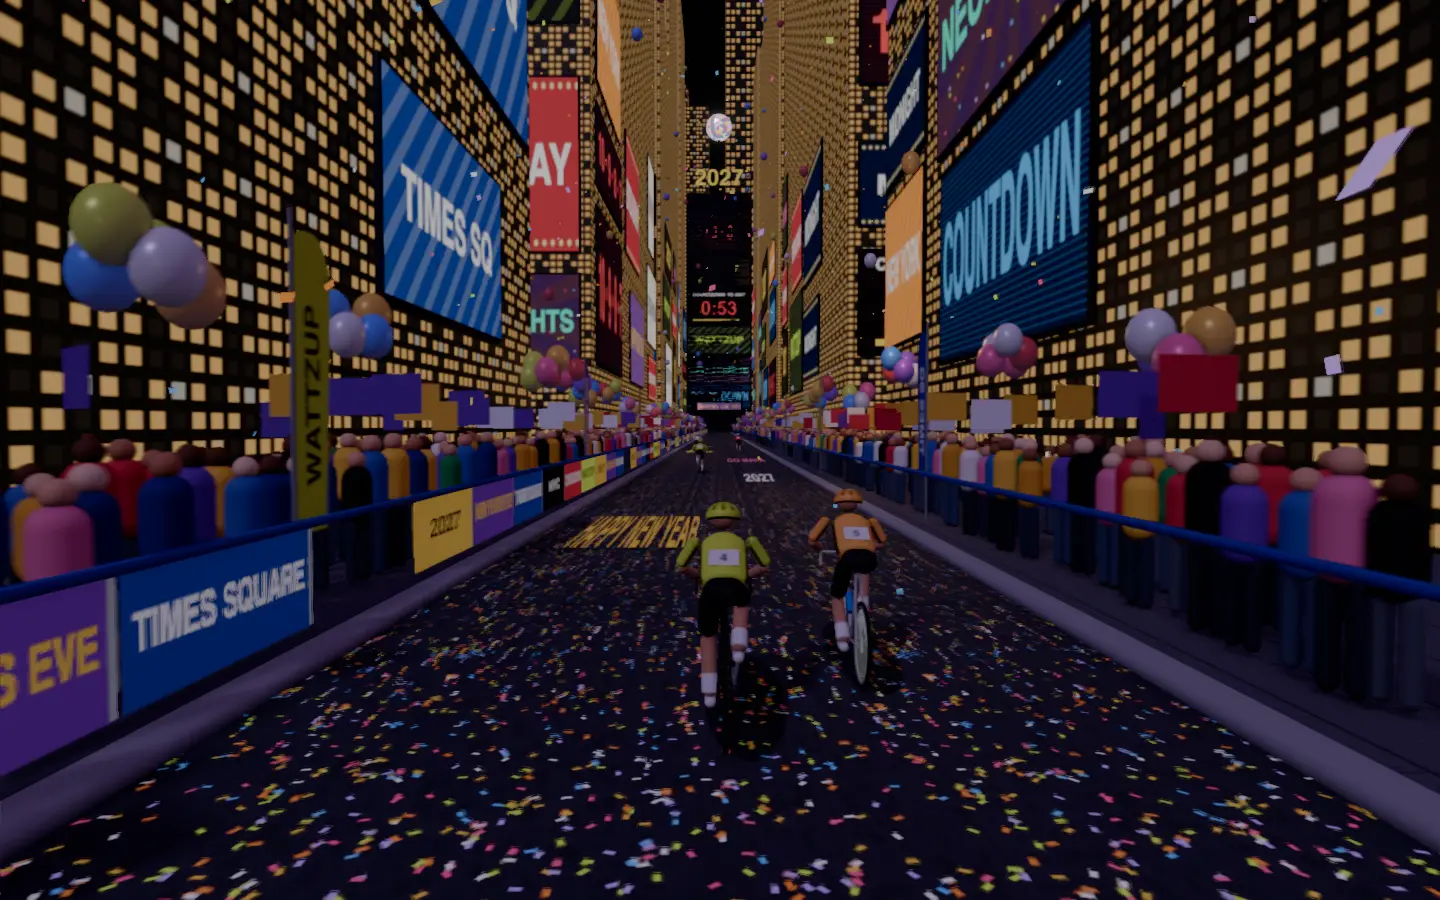
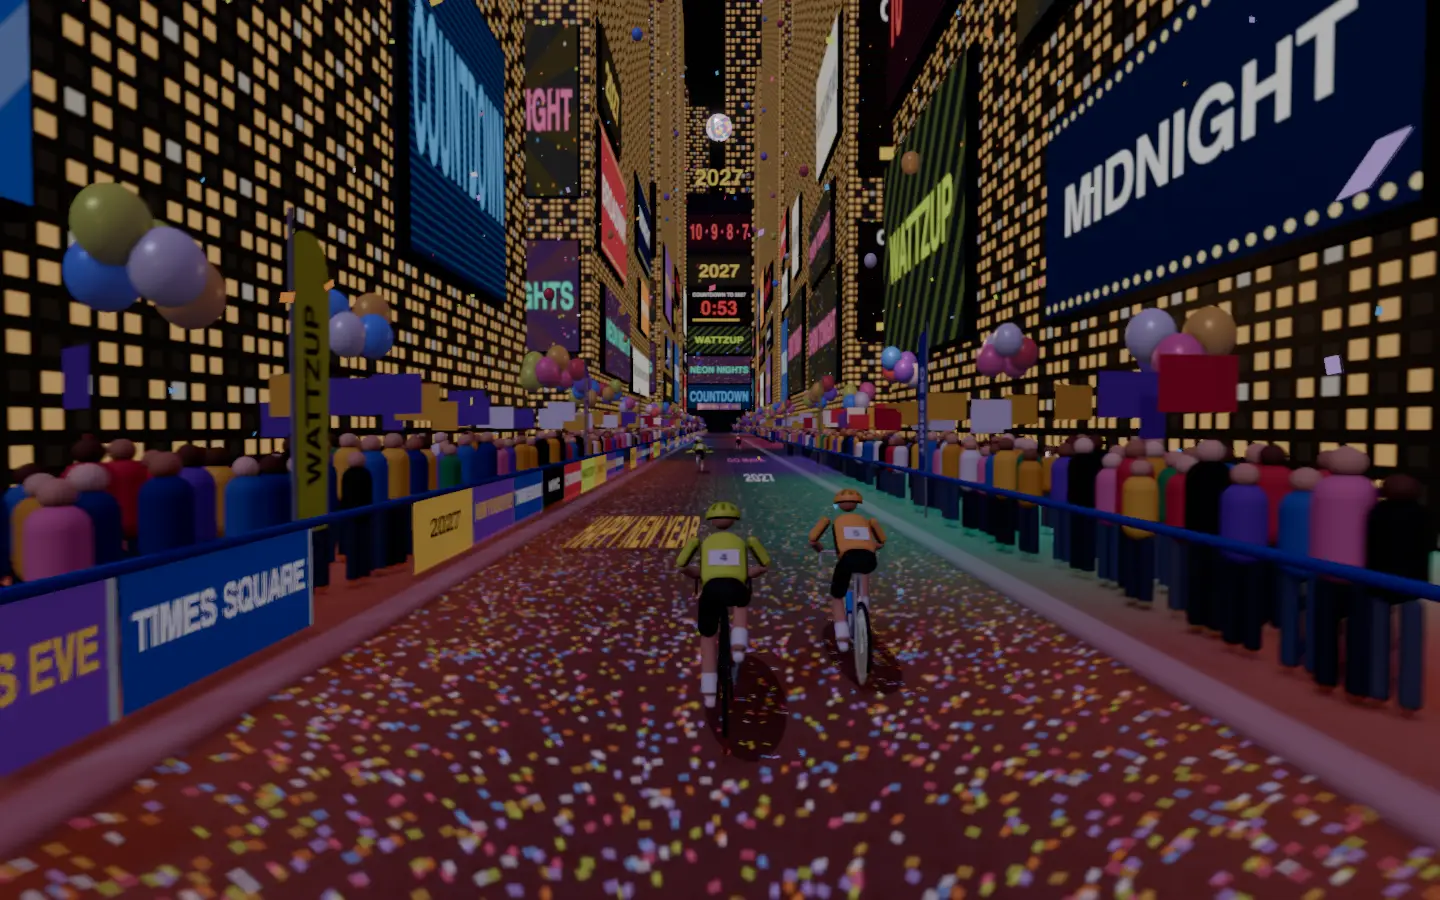
Throw the screens' light across Times Square and steady the far screens

diff --git a/frontend/projects/wattzup/src/app/core/world-timessquare.ts b/frontend/projects/wattzup/src/app/core/world-timessquare.ts
@@ -8,6 +8,7 @@
 // canvas textures and a loop that recycles the street, with the shared crowd, barriers, banners,
 // feather flags, road paint and box builder of world-kit.ts.
 import {
+  AdditiveBlending,
   BoxGeometry,
   type CanvasTexture,
   Color,
@@ -144,6 +145,8 @@ const BALLOON_COLOURS = [
   '#d8283a',
   '#d7ff3a',
 ];
+/** The colours the screens throw onto the street. */
+const GLOW_COLOURS = [0xff3a8a, 0x3a8aff, 0xffc83a, 0x9a4aff, 0x3affd8, 0xff6a1a];
 const CONFETTI_COLOURS = [
   '#f2c230',
   '#ffffff',
@@ -375,6 +378,28 @@ export class TimesSquareStreet implements SceneStreet {
       }),
     );
     const frame = this.material({ color: 0x14141a, roughness: 0.6, metalness: 0.3 });
+    // The light the screens throw: a pool of their colour spilling from each front across the
+    // plaza, the crowd and the street, brightest under the boards and fading toward the crown.
+    const spill = this.track(spillTexture());
+    const pools = GLOW_COLOURS.map((colour) => {
+      const material = new MeshBasicMaterial({
+        map: spill,
+        color: colour,
+        transparent: true,
+        opacity: 0.42,
+        blending: AdditiveBlending,
+        depthWrite: false,
+        toneMapped: false,
+        polygonOffset: true,
+        polygonOffsetFactor: -6,
+      });
+      this.disposables.push(material);
+      return material;
+    });
+    const pool = new PlaneGeometry(1, 1);
+    pool.rotateX(-Math.PI / 2);
+    pool.translate(0.5, 0, 0);
+    this.disposables.push(pool);
     for (const side of [-1, 1] as const) {
       for (let block = 0; block < LOOP / BLOCK; block++) {
         let offset = block * BLOCK + 2;
@@ -391,6 +416,10 @@ export class TimesSquareStreet implements SceneStreet {
           this.disposables.push(shell);
           const body = new Mesh(shell, walls[Math.floor(random() * walls.length)]!);
           tower.add(body);
+          const glow = new Mesh(pool, pools[Math.floor(random() * pools.length)]!);
+          glow.scale.set(FRONT + 1, 1, width + 6);
+          glow.position.y = 0.03;
+          tower.add(glow);
           // Billboards along the front, stacked up the lower floors.
           let y = 5 + random() * 3;
           while (y < 34) {
@@ -468,7 +497,8 @@ export class TimesSquareStreet implements SceneStreet {
       new MeshBasicMaterial({ map: texture, toneMapped: false }),
     );
     this.disposables.push(face.geometry, face.material as MeshBasicMaterial);
-    face.position.z = 0.12;
+    // Well clear of the frame, so the two never fight for depth even 260 m off.
+    face.position.z = 0.4;
     const back = new Mesh(new BoxGeometry(w + 0.4, h + 0.4, 0.2), frame);
     this.disposables.push(back.geometry);
     g.add(back, face);
@@ -904,4 +934,25 @@ function drawCountdown(g: CanvasRenderingContext2D, left: number): void {
   g.fillRect(40, 220, 432, 16);
   g.fillStyle = '#ffd84a';
   g.fillRect(40, 220, 432 * (left / 60), 16);
+}
+
+/** A pool of light on the ground: brightest at one edge, fading across, soft at its ends. */
+function spillTexture(): CanvasTexture {
+  return canvasTexture(128, 128, (g) => {
+    g.clearRect(0, 0, 128, 128);
+    const across = g.createLinearGradient(0, 0, 128, 0);
+    across.addColorStop(0, 'rgba(255,255,255,1)');
+    across.addColorStop(0.45, 'rgba(255,255,255,0.45)');
+    across.addColorStop(1, 'rgba(255,255,255,0)');
+    g.fillStyle = across;
+    g.fillRect(0, 0, 128, 128);
+    g.globalCompositeOperation = 'destination-in';
+    const ends = g.createLinearGradient(0, 0, 0, 128);
+    ends.addColorStop(0, 'rgba(0,0,0,0)');
+    ends.addColorStop(0.25, 'rgba(0,0,0,1)');
+    ends.addColorStop(0.75, 'rgba(0,0,0,1)');
+    ends.addColorStop(1, 'rgba(0,0,0,0)');
+    g.fillStyle = ends;
+    g.fillRect(0, 0, 128, 128);
+  });
 }

diff --git a/docs/class-worlds.md b/docs/class-worlds.md
@@ -43,7 +43,7 @@ Every class in `frontend/public/classes.json`, with its World Ride scene. Render
 | 37 | Team Time Trial | Bonneville Salt Flats | 80% | An endless white salt plain stretches away under a blazing Utah sky, the speedway course marked by its black line past the pits of Speed Week toward the Silver Island Mountains floating on a shimmering mirage. The three-minute warm-up rolls out past the motorhomes and the parked streamliners, each thirty-second and one-minute turn drives the paceline hard between the mile boards, and the recoveries sit in on the wheels with the mirage mountains still floating ahead. |
 | 38 | The Pyramid | Giza Plateau | 72% | Desert road around the pyramids at sunrise; efforts build and fall like the stones. |
 | 39 | Hold Your Intensity | Great Ocean Road (concept) |  | Australian sea cliffs and the Twelve Apostles; hold steady through winding, spray-dashed bends. |
-| 40 | Give Me One Minute | Times Square New Year's Eve | 77% | Broadway through Times Square glows on the last night of the year, its towers wrapped in billboards and countdown screens above a party packed behind police barriers, confetti drifting down toward One Times Square and the crystal ball on its pole. The two-minute warm-up rolls in under the screens, each one-minute effort races the countdown between the billboards toward the ball drop, and the recoveries coast through the confetti with the glowing 2027 still ahead. |
+| 40 | Give Me One Minute | Times Square New Year's Eve | 80% | Broadway through Times Square glows on the last night of the year, its towers wrapped in billboards and countdown screens above a party packed behind police barriers, confetti drifting down toward One Times Square and the crystal ball on its pole. The two-minute warm-up rolls in under the screens, each one-minute effort races the countdown between the billboards toward the ball drop, and the recoveries coast through the confetti with the glowing 2027 still ahead. |
 | 41 | Drag Race | Daytona Beach Sand | 74% | Hard-packed sand where stock cars once raced; drag-race along the tide line. |
 | 42 | Max Effort Up & Overs | San Francisco Hills (concept) |  | Steep streets and Lombard's crooked bends; up and over each crest as cable cars clang. |
 | 43 | Non-Stop Sprinting | Monaco Street Circuit (concept) |  | Superyachts, the casino and the tunnel; sprint the harbour circuit on race weekend. |

diff --git a/docs/detailed-designs/world-ride/draw-class-scene/README.md b/docs/detailed-designs/world-ride/draw-class-scene/README.md
@@ -422,6 +422,7 @@ None.
   - blue police barriers hung with the ride's banners (TIMES SQUARE, NEW YEAR'S EVE, 2027, WATTZUP, COUNTDOWN, NYC), the kit's feather flags every 16 m along both, and two banners over the street (HAPPY NEW YEAR · 2027 and TIMES SQUARE · COUNTDOWN), set where they leave One Times Square in view from the opening shot;
   - the party packed solid in the plazas behind the barriers in winter coats and New Year's colours, a third waving flags (the shared crowd), the cross streets kept clear;
   - towers block after block either side, 11 m off the road's centre, 50 to 160 m tall and 18 to 34 m wide, a cross street every 80 m: their upper floors lit window by window, their lower floors wrapped in glowing billboards (HAPPY NEW YEAR, BROADWAY, COUNTDOWN, THE GREAT WHITE WAY, MIDNIGHT and more, as bursts, big digits, marquees and stripes) stacked along their fronts and round their corners toward the rider, about one in five of the corner boards a countdown screen;
+  - the light the screens throw: under every tower a pool of one of six screen colours (magenta, blue, gold, violet, aqua, orange), added onto the plaza, the crowd and the street, brightest at the tower's front and fading out at the crown, so Broadway glows in patches of colour; every screen face stands 0.4 m clear of its frame, so the two never fight for depth even at One Times Square;
   - confetti, nine hundred flakes of every colour, drifting down and spinning around the rider (`setTime` moves it, so it holds still for reduced motion);
   - the party's balloons in gold, silver, purple, pink, blue, red and lime: bunches of five held up on strings 3 to 4 m over the crowd every 7 m along both sides (none over the cross streets), bobbing, and 140 more let go, rising slowly and swaying into the night over the street ahead up to 74 m (`setTime` moves them, so they hold still for reduced motion);
   - 260 m ahead, where Broadway meets Seventh Avenue, One Times Square: its narrow tower stacked with six screens up its front, the middle one a countdown screen, 2027 in gold lights on its roof and the crystal ball on its pole above, its facets in five colours sparkling; lit towers either side of it and behind, hazed by hand. Everything along the street is hidden past it;
